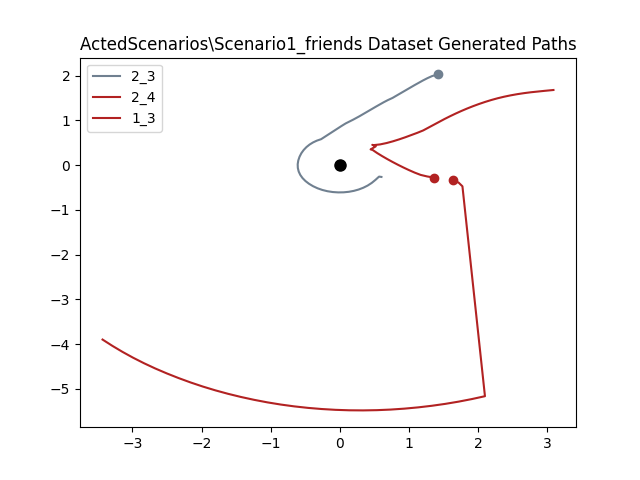
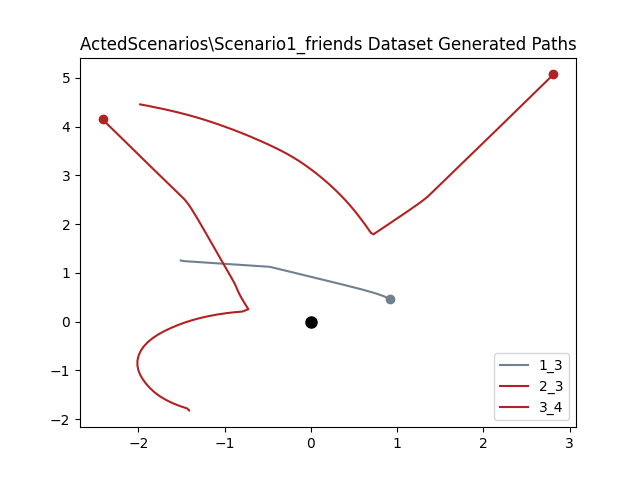
-u

diff --git a/SocialLandmarks_Python/Experiments/inference_existing.py b/SocialLandmarks_Python/Experiments/inference_existing.py
@@ -91,8 +91,12 @@ def generate_trajectories(beh_distr, n_agents, mode):
     # n_agents = len(combs)
 
     os.chdir("C:\PROJECTS\DataDrivenInteractionFields\InteractionFieldsUMANS\examples")
-    behavior_list = ["0_Anticlockwise_final", "1_Unidirectional_final", "2_Attractive_final", "3_Clockwise_final", "4_AvoidV2_final",
-                "Stop", "4_AvoidOppV2_final"]
+    # behavior_list = ["0_Anticlockwise_final", "1_Unidirectional_final", "2_Attractive_final", "3_Clockwise_final", "4_AvoidV2_final",
+    #             "Stop", "4_AvoidOppV2_final"]
+    behavior_list = ["0_Anticlockwise_final", "1_Unidirectional_final", "2_Attractive_final", "CAoval", "7_AvoidRight",
+                "Stop", "6_AvoidOppp"]
+    dir_dict = {0:0, 1:3}
+    avoid_dict = {0:4, 1:6}
 
     dictionary = {}
     for i in range(len(behavior_list)-1):
@@ -115,25 +119,51 @@ def generate_trajectories(beh_distr, n_agents, mode):
         beh_combination = combs[r]
         string = beh_combination.strip("[]'")
         InF1, InF2 = map(int, string.split('_'))
-        end_time = random.randint(6,max_end_time)
+
+        flag_1_4 = ''
+        field_1 = random.randint(1,len(behavior_list)-2)
+        field_2 = random.randint(1,len(behavior_list)-2)
+        end_time = random.randint(6,15)
         max_radius = end_time/4 
-        min_radius = 0.5
+        min_radius = 2
         radius = random.uniform(min_radius, max_radius)
-        T = random.randint(3,int(end_time-3))
-        
-        # Sample Circle Around Behaviour:
-        if InF1 == 0 or InF1 == 3:
-            flag_ca = random.randint(0,1)
-            if flag_ca == 0:
-                InF1 = 0
+        T = random.randint(3,int(end_time-3)) 
+
+        if field_1 == 2 and field_2 == 2:
+            end_time = random.randint(3,6)
+            radius = end_time + 0.01
+        elif field_1 == 2 and field_2 != 2:
+            if T > 10:
+                T = 10
+            radius = T - 0.1
+            if field_2 == 4:
+                end_time = random.randint(8, 10)
+                T = random.randint(3, int(end_time)-4)
+        elif field_2 == 2:
+            end_time = random.randint(6,10)
+            radius = end_time/2
+            if field_1 == 4:
+                T = random.randint(int(end_time-4),int(end_time-2))
             else:
-                InF1 = 3
-        if InF2 == 0 or InF2 == 3:
-            flag_ca = random.randint(0,1)
-            if flag_ca == 0:
-                InF2 = 0
-            else:
-                InF2 = 3
+             T = random.randint(3,int(end_time-3))
+        if field_1 == 1 and field_2 == 4:
+            field_2 = 1
+            field_1 = 4
+            flag_1_4 = "flagged"
+        if field_1 == 1 and field_2 == 1:
+            end_time = 6
+            radius = random.uniform(1, 5)
+        if field_1 == 4:
+            radius = random.uniform(3, 5)
+        if field_2 == 4 and field_1 == 5:
+            end_time = random.randint(8,15)
+            T = random.randint(2,int(end_time-4))
+        if field_1 == 5 and field_2 == 3:
+            T = 2
+        if field_1 == 5 and field_2 == 1:
+            radius = random.uniform(1, 8)
+            end_time = random.randint(4,11-int(radius))
+            T = 2
 
         # Initialise agent and simulation duration:
         x0 = 0
@@ -149,29 +179,44 @@ def generate_trajectories(beh_distr, n_agents, mode):
         or_y = math.sin(random_angle)
         orientation = np.array([or_x, or_y])
 
-        # Handle Avoid Behaviour:
-        if InF1 == 4 or InF1 == 6:
-            # check if behind:
-            vector_to_initial_agent = init_positions[1,:] - init_positions[0,:] 
-            dot_product = np.dot(vector_to_initial_agent, orientation)
+        # Check if agent is behind source:
+        vector_to_initial_agent = init_positions[1,:] - init_positions[0,:]
+        dot_product = np.dot(vector_to_initial_agent, orientation)
+
+        if field_1 == 5 and field_2 == 4:
             if dot_product <= 0:
-                # Agent behind the source:
-                InF1 = 4
+                 # Agent behind the source:
+                field_2 = 4
             else:
                 # Agent in front of source:
-                InF1 = 6
-        if InF2 == 4 or InF2 == 6:
-            flag_av = random.randint(0,1)
-            if flag_av == 0:
-                InF2 = 4
-            else:
-                InF2 = 6
-        field_1 = InF1
-        field_2 = InF2
+                field_2 = 6
+        elif field_1 != 5 and field_2 == 4:
+            field_2 = avoid_dict[random.randint(0,1)]
+            if field_1 == 1:
+                field_2 = 6
 
-        weight = np.zeros((1,len(behavior_list)-1))
-        actionTimes = np.ones((1,len(behavior_list)-1))*(-1)
-        inactiveTimes = np.ones((1,len(behavior_list)-1))*(-1)
+        if field_1 == 4:
+            if dot_product <= 0:
+                # Agent behind the source:
+                field_1 = 4
+            else:
+                # Agent in front of source:
+                field_1 = 6
+            if field_2 == 4 or field_2 == 6:
+                field_2 = field_1
+
+
+        # If sampled field is circle around randomly choose clockwise or anticlockwise options
+        if field_1 == 3:
+            field_dir = random.randint(0,1)
+            field_1 = dir_dict[field_dir]
+        if field_2 == 3:
+            field_dir = random.randint(0,1)
+            field_2 = dir_dict[field_dir]
+
+        weight=np.zeros((1,len(behavior_list)-1))
+        actionTimes=np.ones((1,len(behavior_list)-1))*(-1)
+        inactiveTimes=np.ones((1,len(behavior_list)-1))*(-1)
 
         if field_1 != 5 and field_2 != 5:
             if field_1 == 6:
@@ -211,6 +256,102 @@ def generate_trajectories(beh_distr, n_agents, mode):
             inactiveTimes[0,first_field] = T
             actionTimes[0,first_field] = 0
 
+        # end_time = random.randint(6,max_end_time)
+        # max_radius = end_time/4 
+        # min_radius = 0.5
+        # radius = random.uniform(min_radius, max_radius)
+        # T = random.randint(3,int(end_time-3))
+        
+        # # Sample Circle Around Behaviour:
+        # if InF1 == 0 or InF1 == 3:
+        #     flag_ca = random.randint(0,1)
+        #     if flag_ca == 0:
+        #         InF1 = 0
+        #     else:
+        #         InF1 = 3
+        # if InF2 == 0 or InF2 == 3:
+        #     flag_ca = random.randint(0,1)
+        #     if flag_ca == 0:
+        #         InF2 = 0
+        #     else:
+        #         InF2 = 3
+
+        # # Initialise agent and simulation duration:
+        # x0 = 0
+        # y0 = 0
+        # angle = random.uniform(0, 2 * math.pi)
+        # x = x0 + radius * math.cos(angle)
+        # y = y0 + radius * math.sin(angle)
+        # init_positions=np.array([[x0,y0],[x,y]])
+
+        # # Initialise source orientation:
+        # random_angle = random.uniform(0, 2 * math.pi)
+        # or_x = math.cos(random_angle)
+        # or_y = math.sin(random_angle)
+        # orientation = np.array([or_x, or_y])
+
+        # # Handle Avoid Behaviour:
+        # if InF1 == 4 or InF1 == 6:
+        #     # check if behind:
+        #     vector_to_initial_agent = init_positions[1,:] - init_positions[0,:] 
+        #     dot_product = np.dot(vector_to_initial_agent, orientation)
+        #     if dot_product <= 0:
+        #         # Agent behind the source:
+        #         InF1 = 4
+        #     else:
+        #         # Agent in front of source:
+        #         InF1 = 6
+        # if InF2 == 4 or InF2 == 6:
+        #     flag_av = random.randint(0,1)
+        #     if flag_av == 0:
+        #         InF2 = 4
+        #     else:
+        #         InF2 = 6
+        # field_1 = InF1
+        # field_2 = InF2
+
+        # weight = np.zeros((1,len(behavior_list)-1))
+        # actionTimes = np.ones((1,len(behavior_list)-1))*(-1)
+        # inactiveTimes = np.ones((1,len(behavior_list)-1))*(-1)
+
+        # if field_1 != 5 and field_2 != 5:
+        #     if field_1 == 6:
+        #         first_field = 5
+        #     else:
+        #         first_field = field_1
+        #     if field_2 == 6:
+        #         sec_field = 5
+        #     else:
+        #         sec_field = field_2
+        #     weight[0,first_field] = 1
+        #     weight[0,sec_field] = 1
+
+        #     inactiveTimes[0,first_field] = T
+        #     actionTimes[0,sec_field] = T
+
+        #     inactiveTimes[0,sec_field] = end_time
+        #     actionTimes[0,first_field] = 0
+
+        # elif field_1 == 5 and field_2 != 5:
+        #     if field_2 == 6:
+        #         sec_field = 5
+        #     else:
+        #         sec_field = field_2
+
+        #     weight[0,sec_field] = 1
+        #     inactiveTimes[0,sec_field] = end_time
+        #     actionTimes[0,sec_field] = T
+
+        # elif field_1 != 5 and field_2 == 5:
+        #     if field_1 == 6:
+        #         first_field = 5
+        #     else:
+        #         first_field = field_1
+
+        #     weight[0,first_field] = 1
+        #     inactiveTimes[0,first_field] = T
+        #     actionTimes[0,first_field] = 0
+
     
         generate_instance(init_positions,weight,actionTimes,inactiveTimes,or_x, or_y,dictionary, groupID = r)
   
@@ -230,7 +371,7 @@ if __name__ ==  '__main__':
     # dataset_name = "Flock"
     # dataset_name = "Zara"
     # dataset_name = "Students"
-    specific = "Scenario5_foodcourt"
+    specific = "Scenario1_friends"
     dataset_name = f"ActedScenarios/{specific}"
 
     x_test = load_python_files(dataset_name)

diff --git a/SocialLandmarks_Python/Tool/data_loader.py b/SocialLandmarks_Python/Tool/data_loader.py
@@ -22,8 +22,7 @@ def read_csv_files(csv_directory):
         df = pd.read_csv(os.path.join(csv_directory, filename), 
             header=None, names=column_names, 
             skiprows=None,
-            usecols=[0, 1, 2],
-            sep=';') #TODO: also subject to csv structure
+            usecols=[0, 1, 2]) #,sep=';') #TODO: also subject to csv structure
         df[column_names[0]] = df[column_names[0]].astype(float) 
         df[column_names[1]] = df[column_names[1]].astype(float)
         df[column_names[2]] = df[column_names[2]].astype(float)
@@ -117,7 +116,7 @@ def create_centrered_images(key, value, dataset_name, resolution= 32):
         else:
             # image[pixel_x,pixel_z] = cur_speed
             if f"{pixel_x}_{pixel_z}" in image_dict.keys():
-                image[pixel_x,pixel_z] = 0.85 # TODO: ML change1 cur_speed
+                image[pixel_x,pixel_z] = 0.85 
             else:
                 image[pixel_x,pixel_z] = 0.6
                 image_dict[f"{pixel_x}_{pixel_z}"] = 1
@@ -160,10 +159,14 @@ if __name__ ==  '__main__':
     npz_dir = "C:\PROJECTS\SocialLandmarks\SocialLandmarks_Python\Data\PythonFiles\CaseStudy"
 
     """
-    For name = "\\P2C_20s_Interval\\Arxiepiskopi_0-20" the csv structure is as follows:
+    In general, the timestep limit is 15s. TODO: confirm this for every csv structure.
+    1. For name = "\\P2C_20s_Interval\\Arxiepiskopi_0-20" the csv structure is as follows:
         - timestep; x; z; orientation; goal; group; interaction; connectivity (weights)
+    2. For name = "\\SL\\Scenario1_friends":
+        - timestep, x, z, or_x, or_z
     """
-    name = "\\P2C_20s_Interval\\Arxiepiskopi_0-20"
+    # name = "\\P2C_20s_Interval\\Arxiepiskopi_0-20"
+    name = "\\SL\\Scenario1_friends"
     csv_directory = traj_dir + name + "\\"
     os.makedirs(img_dir + name, exist_ok=True)
     os.makedirs(npz_dir + name, exist_ok=True)

diff --git a/SocialLandmarks_Python/Experiments/visualize_gen_traj.py b/SocialLandmarks_Python/Experiments/visualize_gen_traj.py
@@ -82,7 +82,7 @@ def read_csv_new(current_file_dir, name):
         empty_predictions = plot_trajectories(prefix_updated, value, color_dict)
 
     plt.title(f"{name[1:]} Dataset Generated Paths")
-    plt.plot(0,0,'k',marker='o', markersize=8)
+    plt.plot(0,0,'k',marker='o', markersize=8) # TODO note that source at (0,0) by default
     legends = list(color_dict.keys())
     plt.legend(legends)
     plt.savefig(csv_directory + "traj_image.png")
